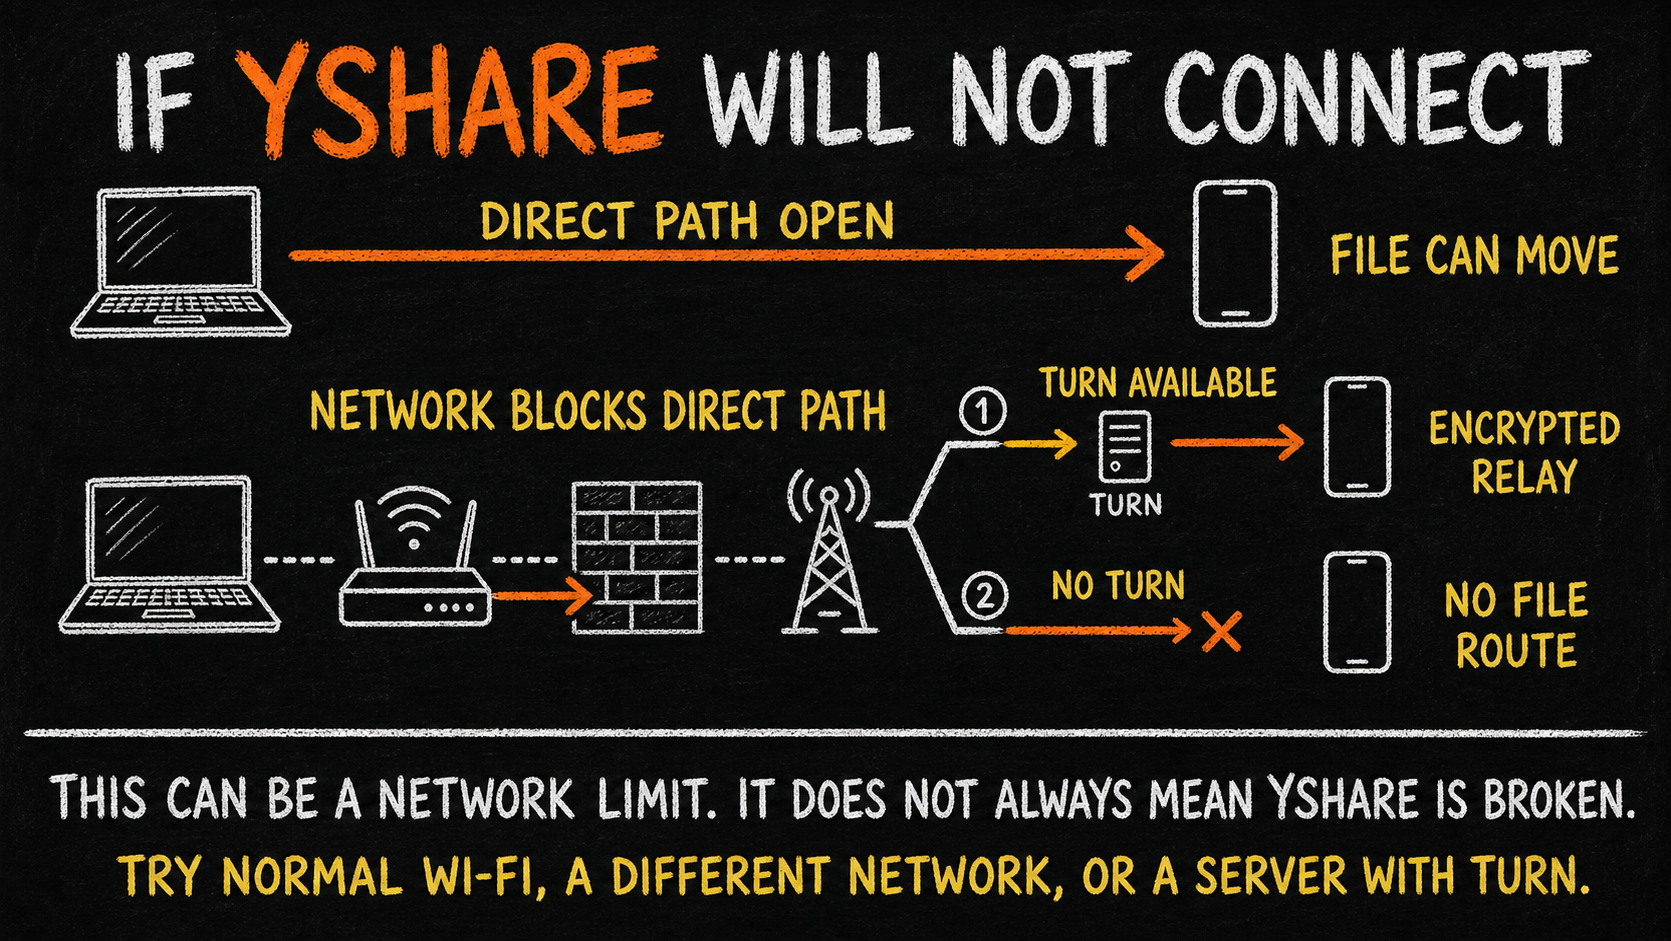
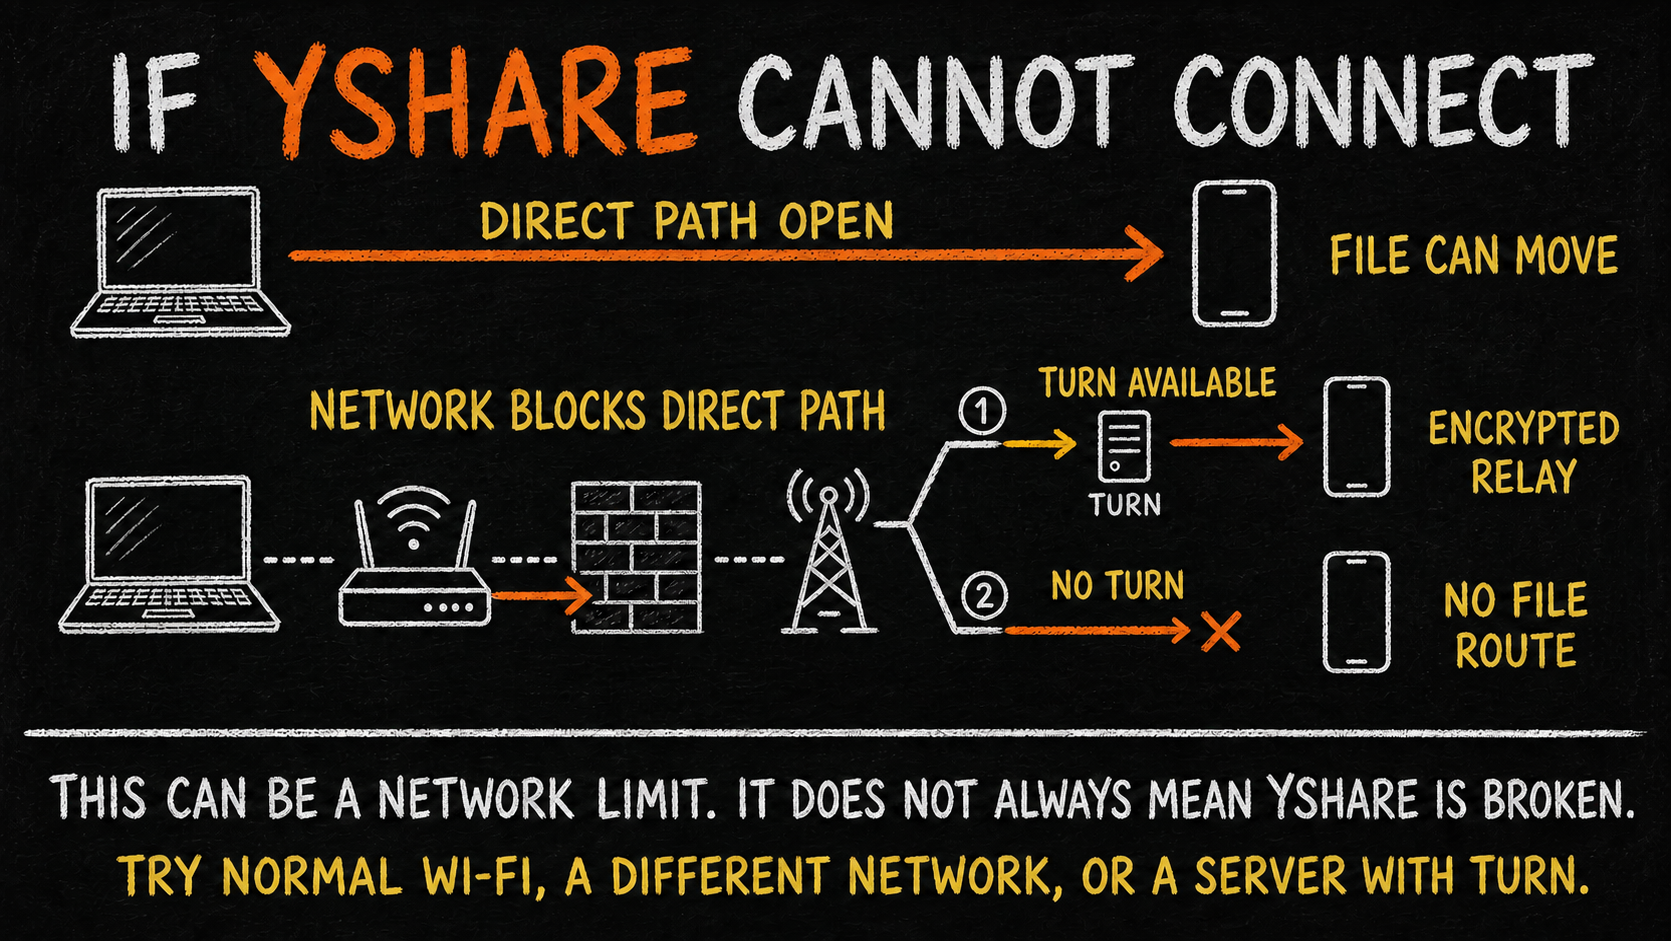
Explain Manual Connect and the first release path
What changed

Corrected the Manual Connect explanation, used the natural heading "If YShare cannot connect," added a clear first-release checklist, separated current product limits, and updated the connection-help artwork.

Why it changed

People should understand that Manual Connect replaces the introduction server but still needs a direct network path when TURN is unavailable. The public README should also distinguish present limits from the work required before official downloads.

How the changes were made

Updated the README, self-hosting guide, desktop and Android help text, shared engine comments, and one regression test. Replaced the connection-help image with an original matching illustration. Local verification and GitHub's required Full verification check passed.

AI model

GPT 5.6 Sol

diff --git a/tests/desktop-lifecycle.test.js b/tests/desktop-lifecycle.test.js
@@ -190,3 +190,18 @@ test('desktop release guards cover stale callbacks, destination reservations, an
     'cleanup results must not claim deletion without checking the cleanup result');
   assert.match(renderer, /Cleanup could not be confirmed\. Close YShare and manually delete/);
 });
+
+test('Manual Connect copy states the direct-network boundary on both platforms', () => {
+  const desktopHtml = fs.readFileSync(path.join(__dirname, '..', 'src', 'renderer', 'index.html'), 'utf8');
+  const desktopRenderer = fs.readFileSync(path.join(__dirname, '..', 'src', 'renderer', 'renderer.js'), 'utf8');
+  const mobile = fs.readFileSync(path.join(__dirname, '..', 'mobile', 'App.tsx'), 'utf8');
+  const readme = fs.readFileSync(path.join(__dirname, '..', 'README.md'), 'utf8');
+  const selfHosting = fs.readFileSync(path.join(__dirname, '..', 'docs', 'SELF-HOSTING.md'), 'utf8');
+  const combined = [desktopHtml, desktopRenderer, mobile, readme, selfHosting].join('\n');
+
+  assert.doesNotMatch(combined, /no server at all|no server whatsoever/i);
+  assert.match(desktopHtml, /without a Quick Connect server/);
+  assert.match(mobile, /without a Quick Connect server/);
+  assert.match(readme, /Without TURN, the devices still need a direct network path\./);
+  assert.match(selfHosting, /direct\/STUN-only/);
+});

diff --git a/mobile/App.tsx b/mobile/App.tsx
@@ -378,7 +378,7 @@ function App(): React.JSX.Element {
     applySignal('');
     const stored = await writeSignalSetting('');
     setSrvMsg(stored
-      ? 'removed — manual codes still work with no server at all'
+      ? 'removed. Manual Connect still works without a Quick Connect server'
       : 'removed for now, but this phone would not let YShare forget it');
   }
 
@@ -1863,10 +1863,11 @@ function App(): React.JSX.Element {
               {srvOpen ? (
                 <View style={styles.srvEdit}>
                   <Text style={styles.hint}>
-                    YShare has no server of its own — nothing you send passes through us. The
+                    YShare has no server of its own. Nothing you send passes through us. The
                     6-character code needs a small connect-me service to introduce the two
                     devices. Run your own (see SELF-HOSTING.md) or paste one you trust. Leave it
-                    empty and the manual code still works, with no server at all.
+                    empty to use Manual Connect without a Quick Connect server. Without TURN,
+                    the devices still need a direct path.
                   </Text>
                   <TextInput
                     style={styles.input}

diff --git a/src/renderer/index.html b/src/renderer/index.html
@@ -475,10 +475,10 @@
     <div class="srv-edit">
       <div class="mono-note">Quick connect server</div>
       <div class="hint">
-        YShare has no server of its own — nothing you send passes through us. The 6-character
+        YShare has no server of its own. Nothing you send passes through us. The 6-character
         code needs a small connect-me service to introduce the two devices. Run your own
-        (see SELF-HOSTING.md) or paste one you trust. Leave it empty and the manual code
-        still works, with no server at all.
+        (see SELF-HOSTING.md) or paste one you trust. Leave it empty to use Manual Connect
+        without a Quick Connect server. Without TURN, the devices still need a direct path.
       </div>
       <input type="text" id="serverIn" placeholder="wss://your-server.example:8443" spellcheck="false" />
       <div class="row">

diff --git a/src/renderer/renderer.js b/src/renderer/renderer.js
@@ -60,7 +60,7 @@ function unlockManual(which) {
 
 // No server address is compiled into YShare. Quick Connect is available only when
 // this install points at a signaling server the person chose themselves; until
-// then the app falls back to manual codes, which need no server at all.
+// then the app falls back to manual codes, which need no Quick Connect server.
 // Default to the closed state while main answers, so an IPC failure cannot open it.
 let quickConnectReady = false;
 
@@ -1795,7 +1795,7 @@ $('btnClearServer').onclick = async () => {
   $('serverIn').value = '';
   setServerMsg(state && state.stored === false
     ? state.reason
-    : 'removed — manual codes still work with no server at all',
+    : 'removed. Manual Connect still works without a Quick Connect server',
   state && state.stored === false ? 'err' : '');
 };
 

diff --git a/shared/engine.js b/shared/engine.js
@@ -156,8 +156,8 @@
   // ── Quick Connect endpoint — deliberately NOT compiled into the app ────────
   // YShare ships with no server of its own, so nobody inherits somebody else's
   // bandwidth bill. Quick Connect (the 6-character claim code) needs a small
-  // signaling service; manual connector codes need none at all, so the app is
-  // fully usable with this left unset.
+  // signaling service. Manual connector codes do not need that introduction
+  // service, so the app remains usable with this left unset.
   //
   // The address is chosen per install and handed to the engine at startup by the
   // platform (desktop settings.json / Android app settings). See docs/SELF-HOSTING.md.

diff --git a/README.md b/README.md
@@ -50,19 +50,20 @@ only. Add TURN later only if the networks you use cannot connect directly.
 You have two ways to connect:
 
 - **Quick Connect:** enter the address of a YShare server you run or trust, then use a six-character code.
-- **Manual Connect:** copy and paste the longer connection codes. This needs no server at all.
+- **Manual Connect:** exchange the longer offer and reply codes yourself. It works without a Quick Connect
+  server. Without TURN, the devices still need a direct network path.
 
 Both devices must use the same Quick Connect server because that is the meeting point where they exchange
 temporary connection information. For example, if the server is `wss://signal.example.com`, enter that exact
 address on the computer and the phone. The address is a setting, not code that must be written into YShare.
 
-## If YShare will not connect
+## If YShare cannot connect
 
 <img alt="A plain-language connection guide: an open direct path moves the file, a blocked direct path uses TURN when available, and a blocked path without TURN has no route." src="docs/assets/readme-connection-help-v1.png">
 
 A six-character code proves that the devices met through the same Quick Connect server. It does not prove
-that the network will allow a path for the file. Manual Connect removes the need for the short-code server,
-but it cannot force a blocked network to open a direct path.
+that the network will allow a path for the file. Manual Connect replaces that introduction step with offer
+and reply codes. Without TURN, it still needs the networks to allow a direct path.
 
 - **Same normal Wi-Fi:** a direct transfer usually works without TURN.
 - **Guest, hotel, school, or office Wi-Fi:** the network may isolate devices, even when both show the same
@@ -142,15 +143,26 @@ Run the full local verification gate:
 npm run verify
 ```
 
-## What is still unfinished
+## What is left before the first release
 
-- There is no official installer or APK download yet.
-- Unrelated-network transfers, including a path that really uses TURN, still need release-level proof.
-- Interrupted transfers restart from zero.
-- Publishing to Android Downloads requires Android 10 or newer.
-- One sender, one receiver, and one file or folder can be active at a time.
+The source is public, but there is no official Windows or Android download yet. This is the release order:
 
-This is an honest source release, not a claim that version 1.0 is finished.
+1. Test the current Android build on a real phone and send one file in both directions.
+2. Complete the final code, security, dependency, documentation, and public-repository review.
+3. Create the private Android release-signing key and back it up safely outside Git.
+4. Test the computer and phone on unrelated internet connections, then confirm one transfer really uses
+   TURN instead of connecting directly.
+5. Build the final unsigned Windows installer and the signed Android APK.
+6. Publish both files with SHA-256 checksums and plain release notes.
+
+## Current product limits
+
+- If a transfer is interrupted, it starts again from the beginning. Resume is not supported yet.
+- Saving into the public Android Downloads folder requires Android 10 or newer.
+- YShare handles one sender, one receiver, and one file or folder at a time.
+
+The source release is ready to inspect and build today. Official app downloads come after the release steps
+above pass.
 
 ## Contributing
 

diff --git a/docs/SELF-HOSTING.md b/docs/SELF-HOSTING.md
@@ -7,9 +7,10 @@ a server you control or trust.
 **You do not edit YShare's code to add a server.** Run the included service, then
 paste its `wss://` address into the Quick connect server setting on both devices.
 
-**You may not need one at all.** Every YShare build can transfer files using the
-manual connection codes, which need no server whatsoever. Quick Connect exists
-purely to save you from copying a long code by hand.
+**You may not need to configure a YShare server.** Manual Connect lets the two
+devices exchange the longer offer and reply codes by hand. Without a configured
+TURN service, that path is direct/STUN-only and can still fail on a restrictive
+network. Quick Connect exists to replace the long codes with a short code.
 
 ---
 
